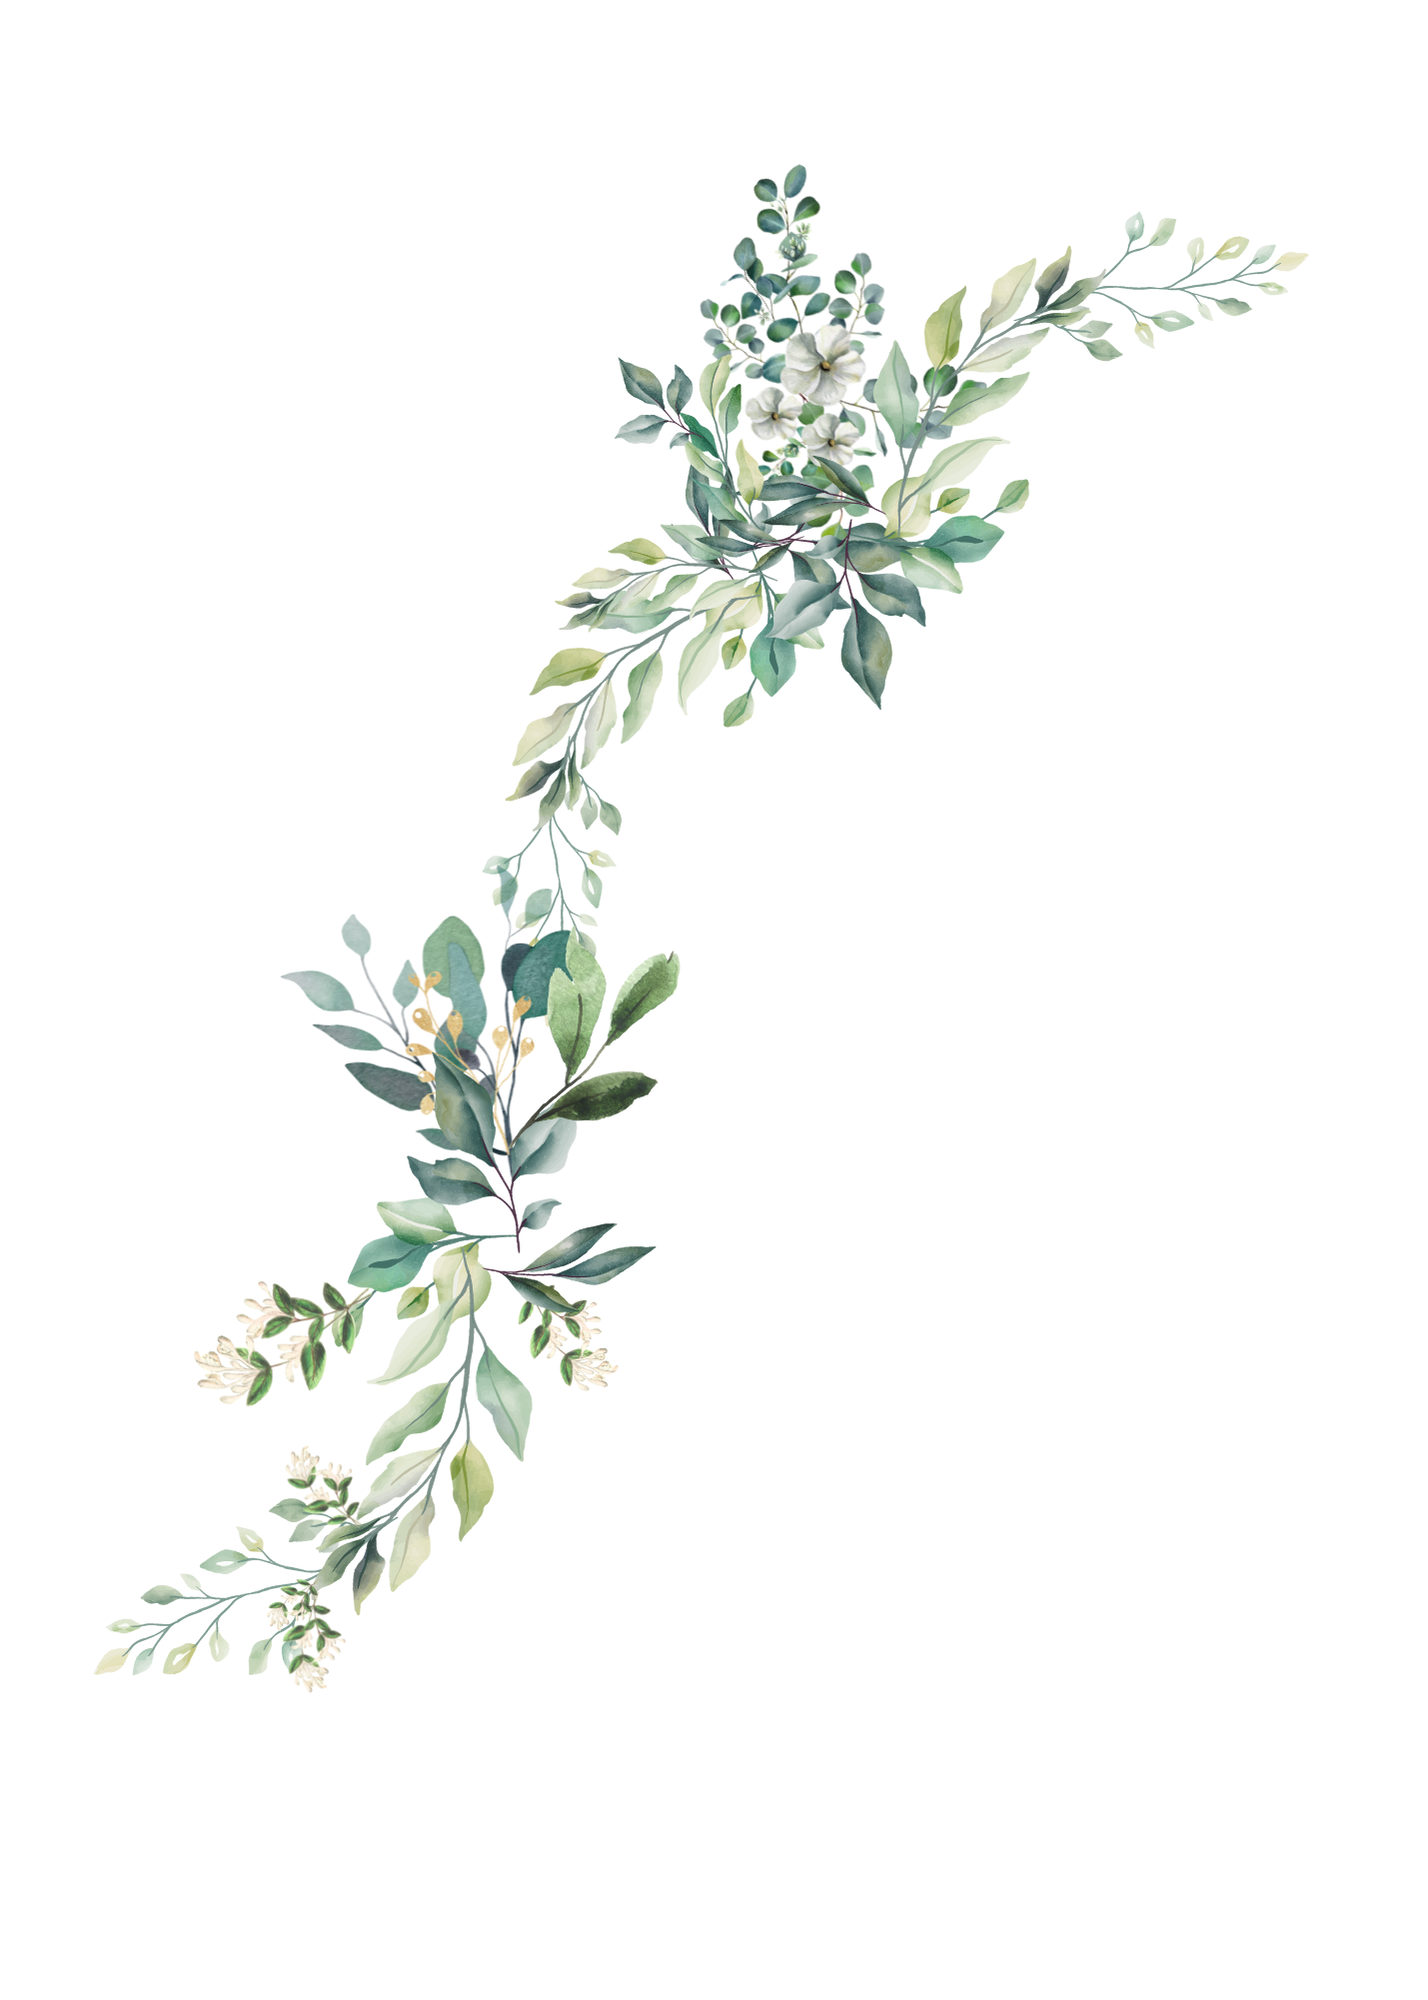
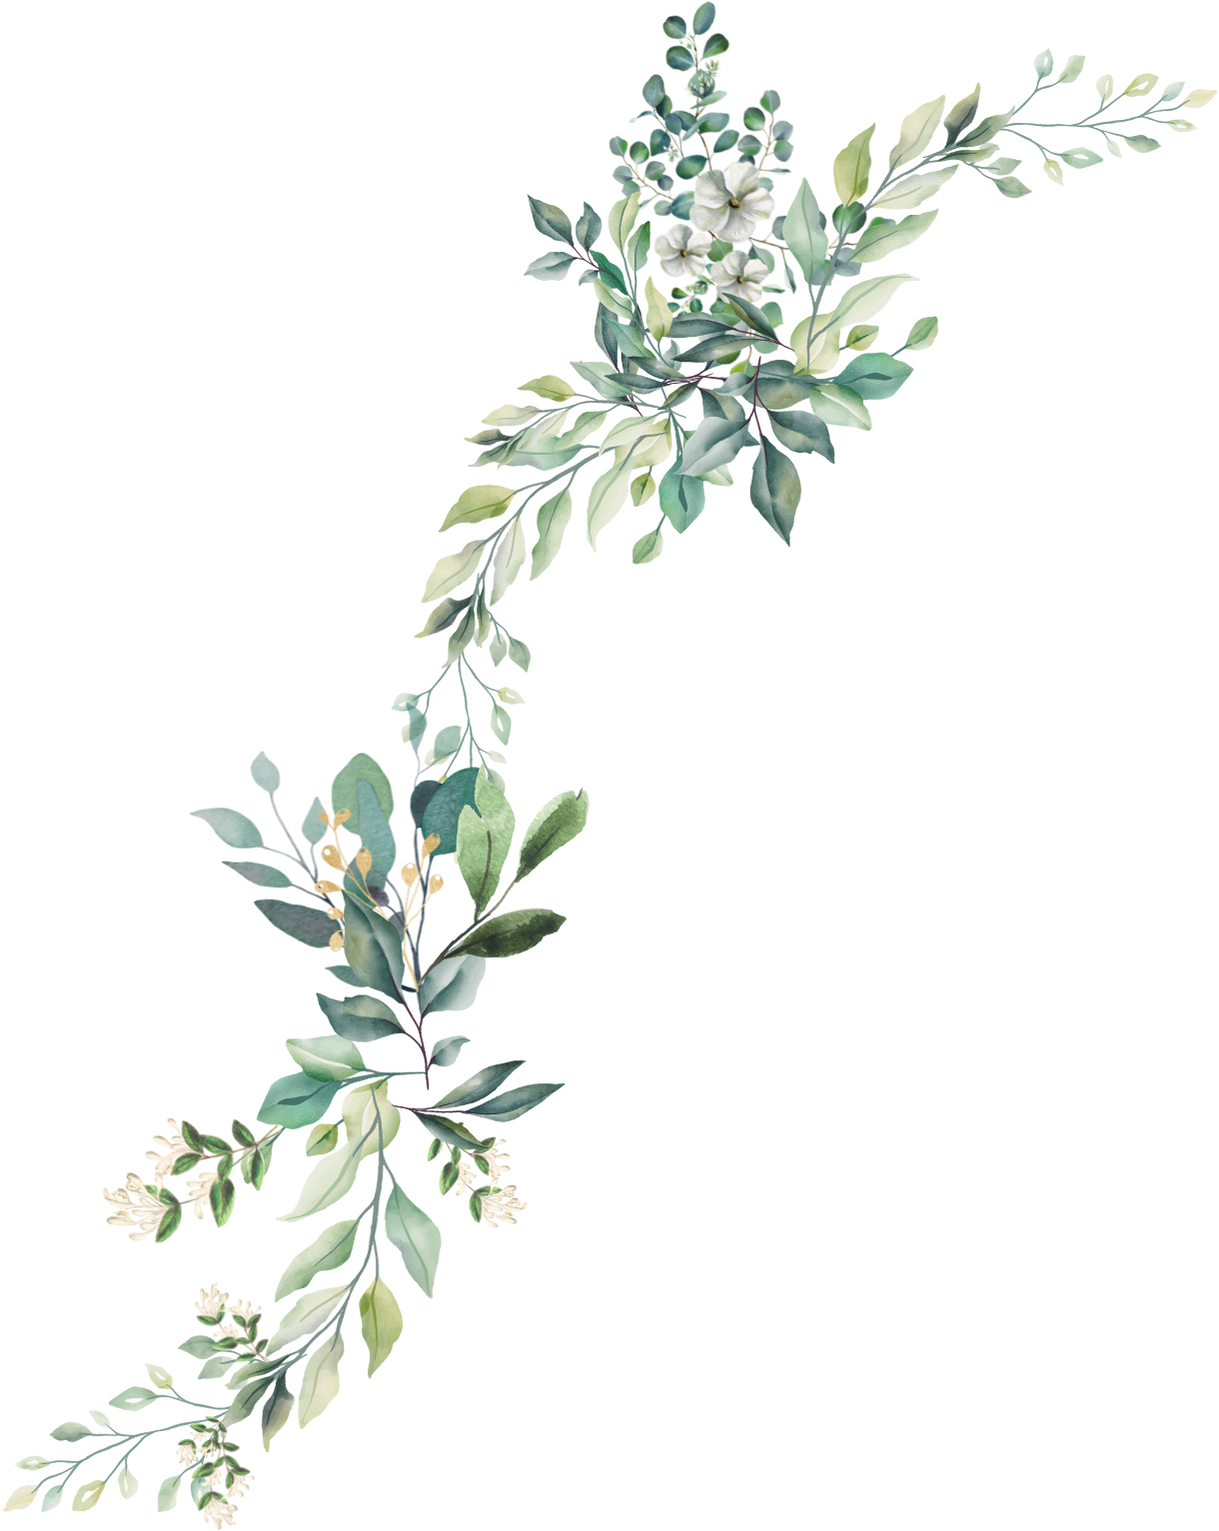
Updating copy

Changed region(s): [[0.0, 0.0, 0.9975, 1.0]]

diff --git a/index.html b/index.html
@@ -70,59 +70,58 @@
       }
 
       :root {
-  --base:              #ffffff;
-  --bg-blend:          multiply;
-  --blur:              0px;
-  --fg-blend:          screen;
-  --foreground:        #102b24;
-  --opacity:           1;
-  --spacing:           1%;
-}
-.img-wrapper {
-  background-color:    var(--base);
-  display:             flex;
-  flex:                1 1 100%;
-  height:              100%;
-  overflow:            hidden;
-  position:            relative;
-  max-width: 500px;
-  margin: 40px auto;
-}
+        --base:              #ffffff;
+        --bg-blend:          multiply;
+        --blur:              0px;
+        --fg-blend:          screen;
+        --foreground:        #102b24;
+        --opacity:           1;
+        --spacing:           1%;
+      }
 
-.img-wrapper img {
-  filter:              grayscale(100%) contrast(1) blur(var(--blur));
-  flex:                1 0 100%;
-  height:              100%;
-  max-width:           100%;
-  mix-blend-mode:      var(--bg-blend);
-  object-fit:          cover;
-  opacity:             var(--opacity);
-  position:            relative;
-  width:               100%;
-}
+      .img-wrapper {
+        background-color:    var(--base);
+        display:             flex;
+        flex:                1 1 100%;
+        height:              100%;
+        overflow:            hidden;
+        position:            relative;
+        max-width: 500px;
+        margin: 40px auto;
+      }
 
-.img-wrapper::before {
-  background-color:    var(--foreground);
-  bottom:              0;
-  content:             '';
-  height:              100%;
-  left:                0;
-  mix-blend-mode:      var(--fg-blend);
-  position:            absolute;
-  right:               0;
-  top:                 0;
-  width:               100%;
-  z-index:             1;
-}
+      .img-wrapper img {
+        filter:              grayscale(100%) contrast(1) blur(var(--blur));
+        flex:                1 0 100%;
+        height:              100%;
+        max-width:           100%;
+        mix-blend-mode:      var(--bg-blend);
+        object-fit:          cover;
+        opacity:             var(--opacity);
+        position:            relative;
+        width:               100%;
+      }
 
+      .img-wrapper::before {
+        background-color:    var(--foreground);
+        bottom:              0;
+        content:             '';
+        height:              100%;
+        left:                0;
+        mix-blend-mode:      var(--fg-blend);
+        position:            absolute;
+        right:               0;
+        top:                 0;
+        width:               100%;
+        z-index:             1;
+      }
 
-        .floral {
-          opacity: .25;
-          position: absolute;
-          left: -25%;
-          z-index: 0;
-        }
-
+      .floral {
+        opacity: .25;
+        position: absolute;
+        left: -15%;
+        z-index: 0;
+      }
     </style>
   </head>
   <body>
@@ -159,17 +158,22 @@
 
       <h3 class="text-xl mb-2">April 23, 2022</h3>
       <h3 class="text-xl mb-2">Kingswood United Methodist Church, Buffalo Grove, IL</h3>
-      <h3 class="text-xl mb-2">Zoom Link to be provided</h3>
     </section>
 
     <hr>
 
     <section class="virtual-attendance">
       <h2 class="text-2xl">Virtual Attendance</h2>
+
+      <p>Due to the ongoing COVID-19 pandemic, we will also be livestreaming the ceremony. We will provide the Zoom link closer to the big day but we will start the stream just before 6:00PM Central Time (UTC−5).</p>
     </section>
 
+    <hr>
+
     <section class="registry">
-      <h2>Registry</h2>
+      <h2 class="text-2xl">Registry</h2>
+
+      <p>Lorem ipsum dolor sit amet consectetur adipisicing elit. Iusto aliquid voluptatibus dolorem earum vitae at assumenda alias, non, voluptas molestias quidem quos libero. Quod odio, dignissimos modi culpa dolores, aliquam?</p>
     </section>
 
     <script>
